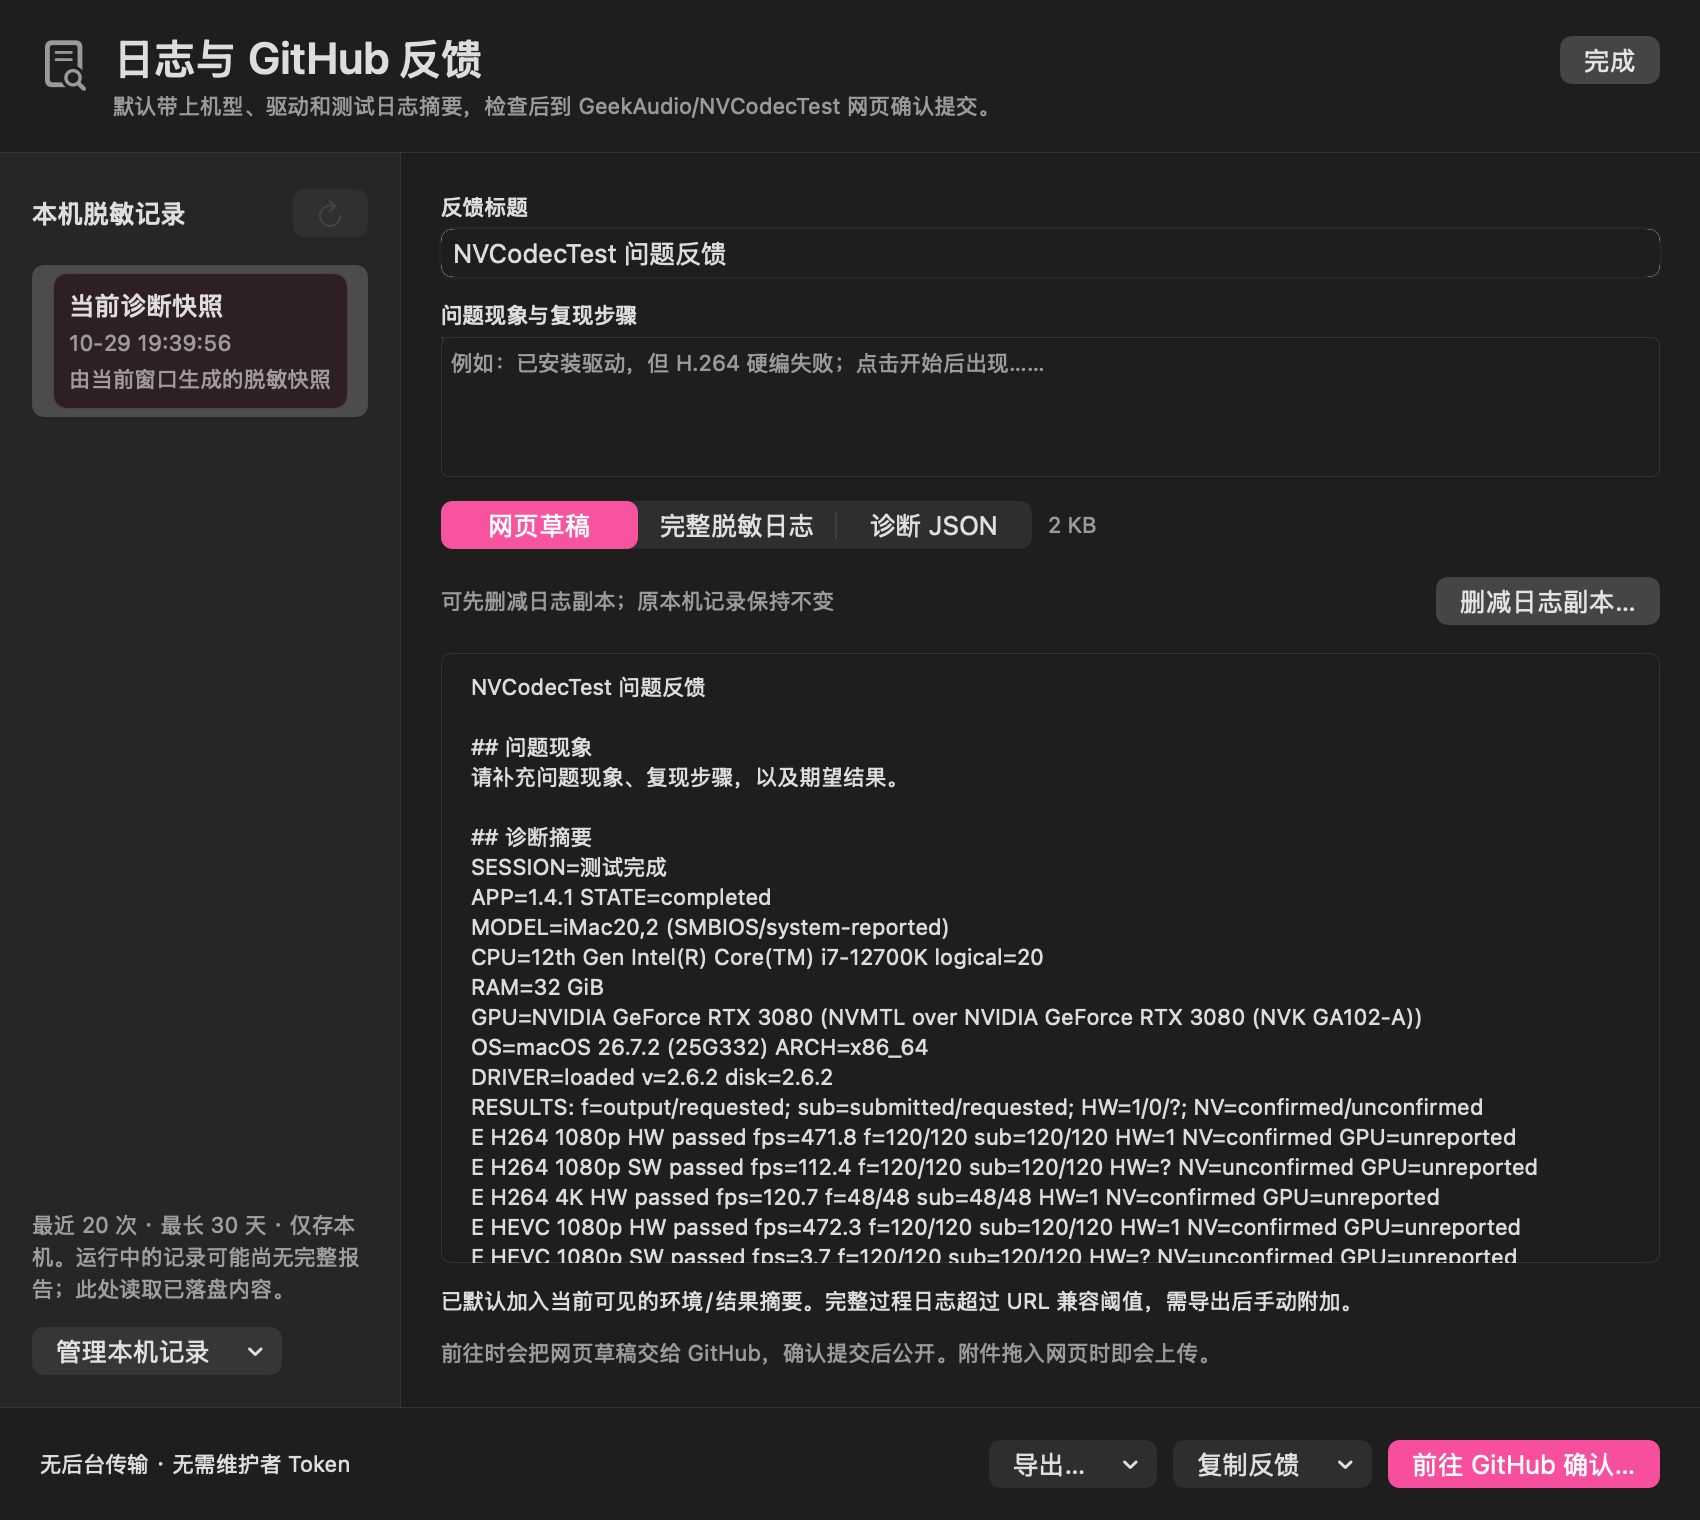
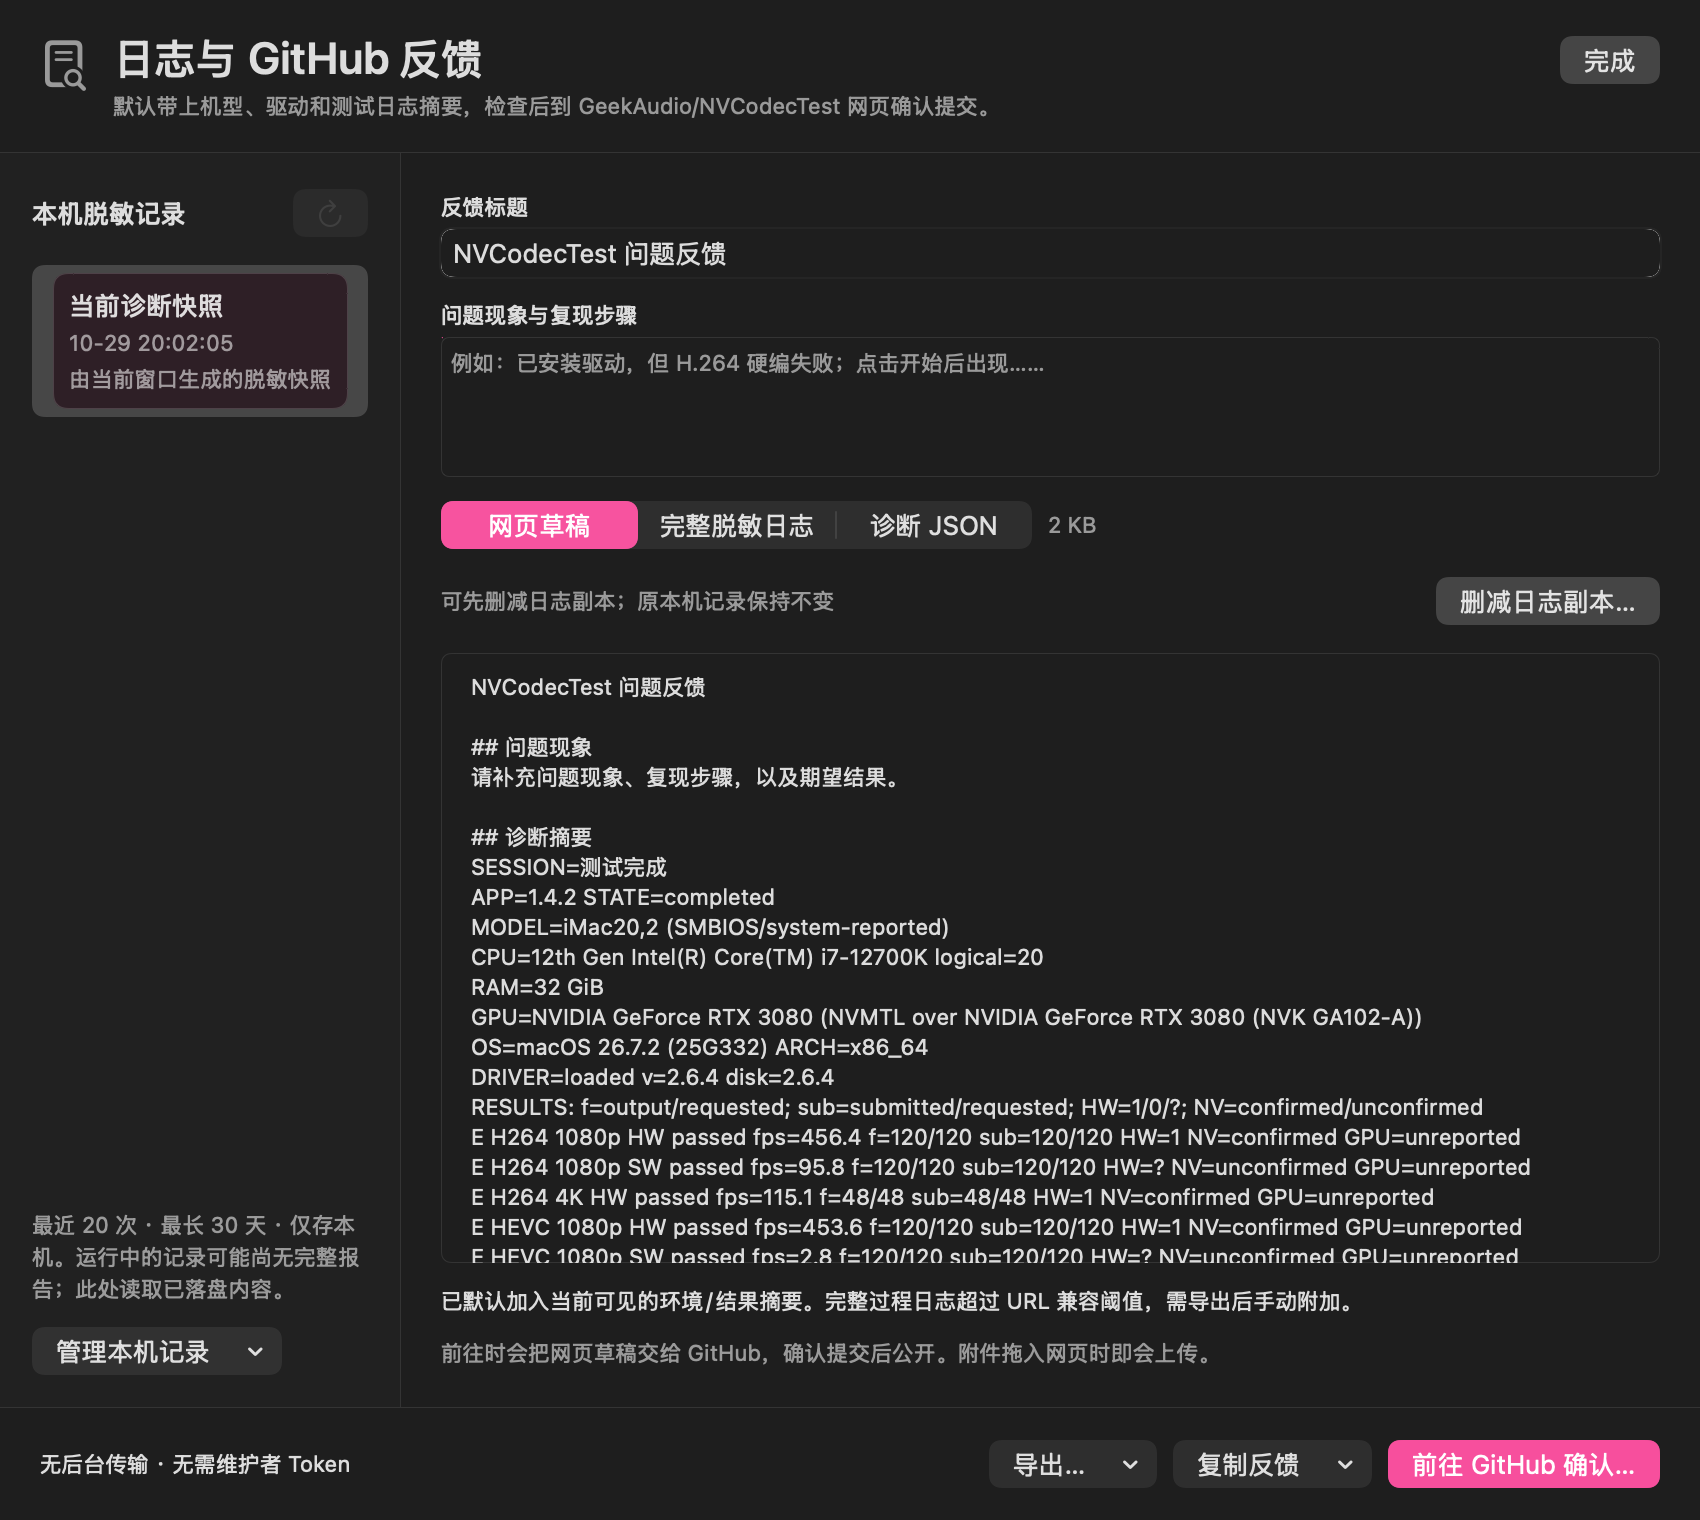
减轻环境侧栏底色

Changed region(s): [[0.4676, 0.7421, 0.9041, 0.8349], [0.3429, 0.5875, 0.4676, 0.6184], [0.0935, 0.2164, 0.1247, 0.2474]]

diff --git a/Sources/Theme.swift b/Sources/Theme.swift
@@ -16,6 +16,7 @@ struct DesignTokens {
         static var content: Color { Color(.controlBackgroundColor) }
         static var control: Color { Color(.controlBackgroundColor) }
         static var inset: Color { Color(.underPageBackgroundColor) }
+        static var sidebarTint: Color { window.opacity(0.60) }
     }
     enum Stroke {
         static var separator: Color { Color(.separatorColor) }
@@ -67,6 +68,17 @@ struct NativeMaterial: NSViewRepresentable {
         view.material = material
         view.blendingMode = blendingMode
         view.state = .followsWindowActiveState
+    }
+}
+
+/// Retain the native material while bringing its luminance closer to the window.
+struct SidebarSurface: View {
+    var blendingMode: NSVisualEffectView.BlendingMode = .behindWindow
+    var body: some View {
+        ZStack {
+            NativeMaterial(material: .sidebar, blendingMode: blendingMode)
+            DesignTokens.Surface.sidebarTint
+        }.allowsHitTesting(false).accessibilityHidden(true)
     }
 }
 

diff --git a/Sources/MainView.swift b/Sources/MainView.swift
@@ -110,7 +110,7 @@ struct MainView: View {
             Spacer(minLength: 0)
             Button("完整环境与编码器…") { sheet = .environment }.buttonStyle(NativeButtonStyle())
         }.padding(12)
-            .background(NativeMaterial(material: .sidebar, blendingMode: .behindWindow))
+            .background(SidebarSurface())
             .clipShape(RoundedRectangle(cornerRadius: DesignTokens.corner))
             .overlay(HStack(spacing: 0) { Hairline(axis: .vertical); Spacer(minLength: 0) })
     }

diff --git a/Sources/FeedbackView.swift b/Sources/FeedbackView.swift
@@ -98,7 +98,7 @@ struct FeedbackView: View {
             Hairline()
             HStack(alignment: .top, spacing: 0) {
                 historySidebar.frame(width: 200)
-                    .background(NativeMaterial(material: .sidebar, blendingMode: .withinWindow))
+                    .background(SidebarSurface(blendingMode: .withinWindow))
                 Hairline(axis: .vertical)
                 feedbackBody.padding(20)
             }

diff --git a/docs/macOS原生界面规范.md b/docs/macOS原生界面规范.md
@@ -245,3 +245,8 @@ hover 的 ΔL* 均为轻微变化，在本机这些静态组合中不超过 6；
 重放已有报告检查 860×670 浅色结果、840×660 深色失活压力样本（包括 999999.9 FPS）、840×660 浅色失败样本、850×760 深色反馈页。四图均已逐张检查：九宫格、右侧环境栏、状态标签、错误码和底部操作可见，状态底色随文字收缩，顶部没有分段进度条。压力数字和失败数据仅用于布局测试，不代表本轮硬件实测。截图输出在 build/ui-native-20261029/final/latest-*.png；README 两张图已更新。
 
 上述复核未改变键盘焦点的验证边界：系统键盘导航关闭时，程序化 key-view 导航仍未进入控件，不能据此宣称 Tab 与系统焦点环的真实交互已经验证。
+
+
+### 环境侧栏底色减轻
+
+最终发布前按界面反馈，在原生 sidebar 材质上叠加 60% 的 windowBackgroundColor，集中到 Surface.sidebarTint 与 SidebarSurface。右侧环境栏保留 behindWindow；反馈页侧栏保留 withinWindow。两种外观均跟随语义色解析，使侧栏更接近窗口底色，材质与一像素边界仍保留，不通过固定白色或黑色模拟外观。这个派生表面的真实像素仍受原生材质影响，不作跨壁纸的固定明度保证。
